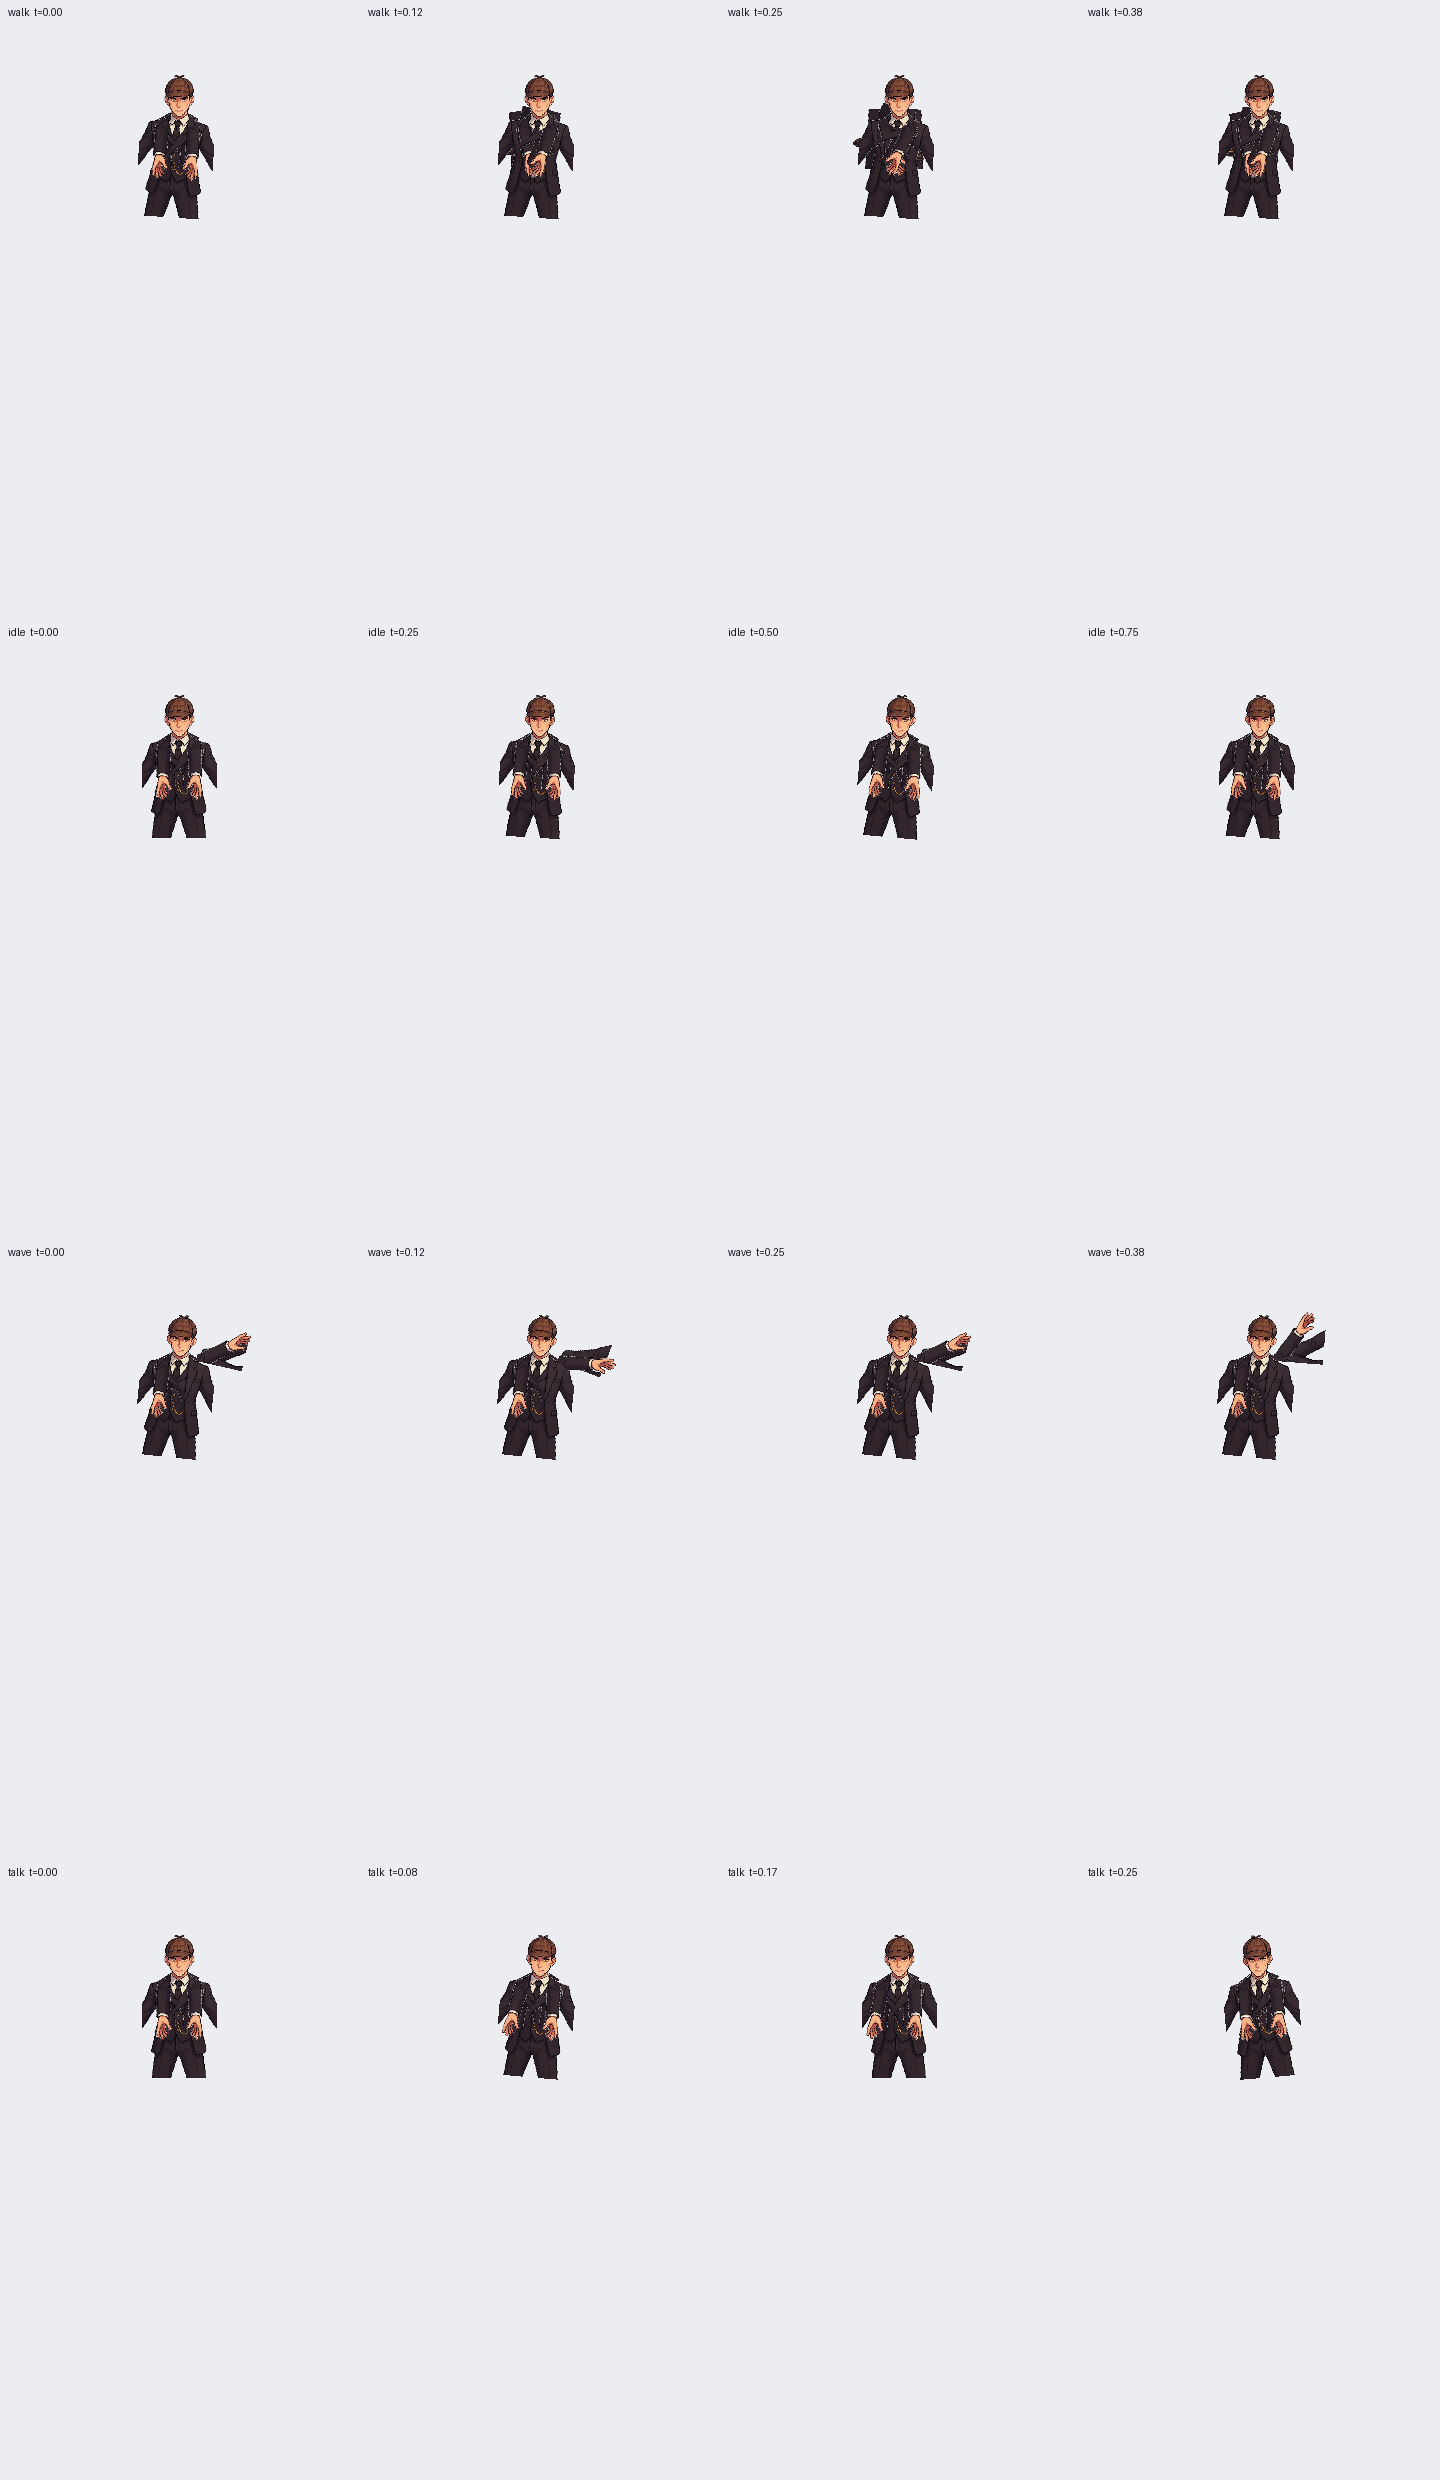
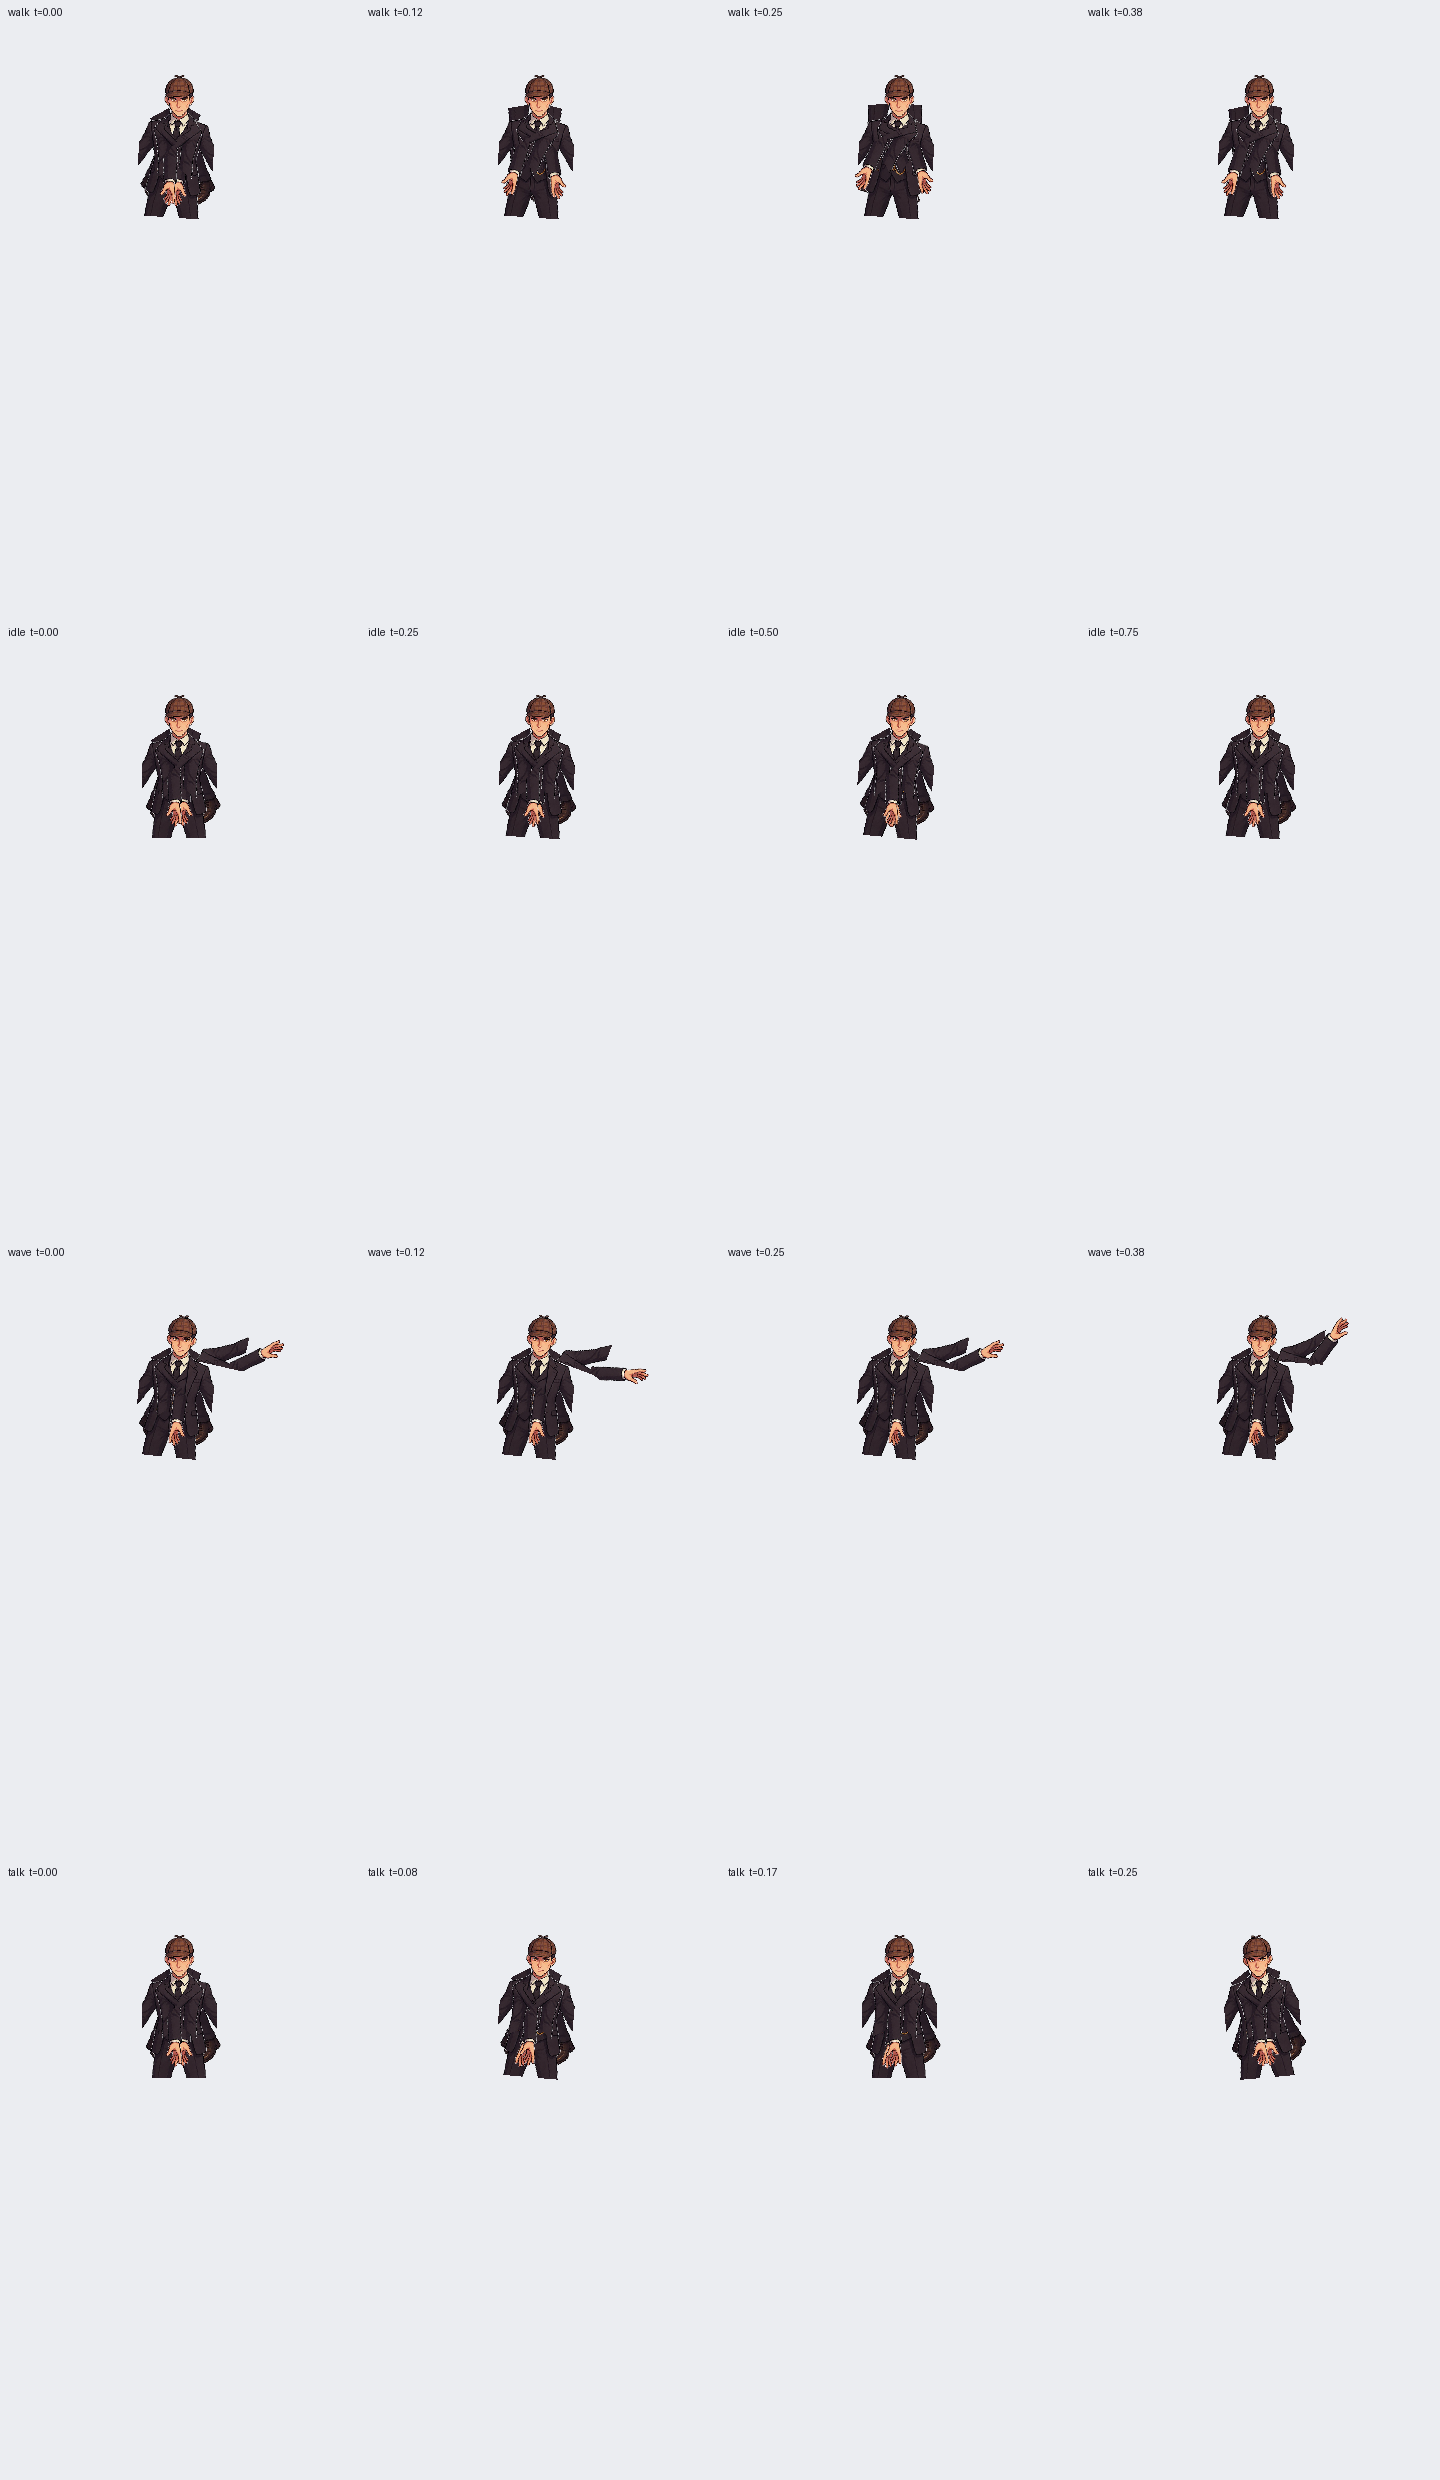
fix(rig): 修正福尔摩斯 A-pose 绑骨前臂/小腿挂点与 pivot，消除 wave 肘部脱节
- split_sherlock_spread.py: 部件矩形框保留完整区域并记录 core_offset，关节处增加重叠像素（上臂内侧 30px、前臂顶 28px 等），避免旋转后露白缝。
- build_sherlock_spread_rig.py: 用 src_point 将四肢 pivot 精确Clamp到核心像素；shoulder/hip 保持零长定位骨；前臂/小腿严格沿父骨方向 [0,parent_len] 挂接，消除二次偏移导致的肘/膝脱节。
- 重新生成 scripts/rig/sherlock_spread_rig.gd、_rig_spec.json、_joints_debug.json、poses_sherlock_spread.json 与 contact_sheet_sherlock_spread.png。
- 验证：godot --headless --check-only 无 ERROR；sherlock_spread_skeleton_character.tscn 实例化无脚本错误。

diff --git a/godot_project/tools/build_sherlock_spread_rig.py b/godot_project/tools/build_sherlock_spread_rig.py
@@ -69,6 +69,14 @@ def sub(a, b):
     return [a[0] - b[0], a[1] - b[1]]
 
 
+def limb_pivot(parts: dict, name: str):
+    """把四肢 pivot 的 y Clamp 到核心区域上边界，避免落在透明重叠区。"""
+    axis = parts[name]["axis"]
+    _, oy = parts[name]["core_offset"]
+    px, py = axis["top"]
+    return [float(px), max(float(py), float(oy))]
+
+
 def main() -> int:
     if not RIG_JSON.exists():
         print(f"[ERR] {RIG_JSON} not found; run split_sherlock_spread.py first", file=sys.stderr)
@@ -110,11 +118,17 @@ def main() -> int:
             fg = a[:, :, 3] > 128
             ys, xs = np.where(fg)
             src_bbox = [int(xs.min()), int(ys.min()), int(xs.max()), int(ys.max())]
+        # 读取 split 脚本记录的 core_offset（扩展框 -> 核心区域偏移）
+        core_offset = [0, 0]
+        for b in tmp_spec.get("parts_meta", []):
+            if b.get("name") == name and "core_offset" in b:
+                core_offset = b["core_offset"]
         # head/torso 用 bbox 中心关节，四肢用 PCA
         axis = bbox_axis(path) if name in ("head", "torso") else limb_axis_from_path(path)
         parts[name] = {
             "axis": axis,
             "src_bbox": src_bbox,
+            "core_offset": core_offset,
         }
         ax = parts[name]["axis"]
         print(f"  {name}: len={ax['len_px']:.1f}px rot={ax['rot_deg']:.1f} top=({ax['top'][0]:.0f},{ax['top'][1]:.0f}) bottom=({ax['bottom'][0]:.0f},{ax['bottom'][1]:.0f})")
@@ -131,24 +145,24 @@ def main() -> int:
     hip_root = [(torso_top[0] + torso_bottom[0]) / 2.0, torso_bottom[1]]
 
     shoulder = {
-        "L": src_point("upperarm_L", parts["upperarm_L"]["axis"]["top"]),
-        "R": src_point("upperarm_R", parts["upperarm_R"]["axis"]["top"]),
+        "L": src_point("upperarm_L", limb_pivot(parts, "upperarm_L")),
+        "R": src_point("upperarm_R", limb_pivot(parts, "upperarm_R")),
     }
     elbow = {
-        "L": src_point("forearm_L", parts["forearm_L"]["axis"]["top"]),
-        "R": src_point("forearm_R", parts["forearm_R"]["axis"]["top"]),
+        "L": src_point("forearm_L", limb_pivot(parts, "forearm_L")),
+        "R": src_point("forearm_R", limb_pivot(parts, "forearm_R")),
     }
     wrist = {
         "L": src_point("forearm_L", parts["forearm_L"]["axis"]["bottom"]),
         "R": src_point("forearm_R", parts["forearm_R"]["axis"]["bottom"]),
     }
     hip_joint = {
-        "L": src_point("thigh_L", parts["thigh_L"]["axis"]["top"]),
-        "R": src_point("thigh_R", parts["thigh_R"]["axis"]["top"]),
+        "L": src_point("thigh_L", limb_pivot(parts, "thigh_L")),
+        "R": src_point("thigh_R", limb_pivot(parts, "thigh_R")),
     }
     knee = {
-        "L": src_point("shin_L", parts["shin_L"]["axis"]["top"]),
-        "R": src_point("shin_R", parts["shin_R"]["axis"]["top"]),
+        "L": src_point("shin_L", limb_pivot(parts, "shin_L")),
+        "R": src_point("shin_R", limb_pivot(parts, "shin_R")),
     }
     ankle = {
         "L": src_point("shin_L", parts["shin_L"]["axis"]["bottom"]),
@@ -217,12 +231,13 @@ def main() -> int:
                 "shoulder_R": "torso_top",
                 "upperarm_L": "shoulder_L",
                 "upperarm_R": "shoulder_R",
-                "forearm_L": "elbow_L",
-                "forearm_R": "elbow_R",
+                # 前臂/小腿严格挂在父骨末端：attach 用父骨起点，local_pos 自然为 [0, parent_len]
+                "forearm_L": "shoulder_L",
+                "forearm_R": "shoulder_R",
                 "thigh_L": "hip_L",
                 "thigh_R": "hip_R",
-                "shin_L": "knee_L",
-                "shin_R": "knee_R",
+                "shin_L": "hip_L",
+                "shin_R": "hip_R",
             }[name]
             local_pos = rotate(sub(P[world_joint], P[attach]), -Theta[parent])
             local_rot = theta - Theta[parent]
@@ -270,31 +285,37 @@ def main() -> int:
                            P[f"elbow_{side}"][1] - P[f"shoulder_{side}"][1])
         bones.append(bone(f"upperarm_{side}", f"shoulder_{side}", f"shoulder_{side}", Theta[f"upperarm_{side}"],
                           ua_len, parts[f"upperarm_{side}"]["axis"]["size"][0] * scale * 0.6,
-                          f"upperarm_{side}.png", parts[f"upperarm_{side}"]["axis"]["top"], coat_l))
+                          f"upperarm_{side}.png", limb_pivot(parts, f"upperarm_{side}"), coat_l))
         fa_len = math.hypot(P[f"wrist_{side}"][0] - P[f"elbow_{side}"][0],
                            P[f"wrist_{side}"][1] - P[f"elbow_{side}"][1])
-        # forearm 严格挂在 upperarm 末端：用 attach=elbow，本地 pos 自然为 [0, ua_len]
         bones.append(bone(f"forearm_{side}", f"upperarm_{side}", f"elbow_{side}", Theta[f"forearm_{side}"],
                           fa_len, parts[f"forearm_{side}"]["axis"]["size"][0] * scale * 0.6,
-                          f"forearm_{side}.png", parts[f"forearm_{side}"]["axis"]["top"], skin))
+                          f"forearm_{side}.png", limb_pivot(parts, f"forearm_{side}"), skin))
 
     for side in ("L", "R"):
         th_len = math.hypot(P[f"knee_{side}"][0] - P[f"hip_{side}"][0],
                           P[f"knee_{side}"][1] - P[f"hip_{side}"][1])
         bones.append(bone(f"thigh_{side}", "hip", f"hip_{side}", Theta[f"thigh_{side}"],
                           th_len, parts[f"thigh_{side}"]["axis"]["size"][0] * scale * 0.55,
-                          f"thigh_{side}.png", parts[f"thigh_{side}"]["axis"]["top"], pants))
+                          f"thigh_{side}.png", limb_pivot(parts, f"thigh_{side}"), pants))
         sh_len = math.hypot(P[f"ankle_{side}"][0] - P[f"knee_{side}"][0],
                           P[f"ankle_{side}"][1] - P[f"knee_{side}"][1])
         bones.append(bone(f"shin_{side}", f"thigh_{side}", f"knee_{side}", Theta[f"shin_{side}"],
                           sh_len, parts[f"shin_{side}"]["axis"]["size"][0] * scale * 0.5,
-                          f"shin_{side}.png", parts[f"shin_{side}"]["axis"]["top"], skin))
+                          f"shin_{side}.png", limb_pivot(parts, f"shin_{side}"), skin))
+
+    # 前臂/小腿严格挂在父骨末端，避免 wave/idle 时关节脱节
+    for side in ("L", "R"):
+        for child, parent in [(f"forearm_{side}", f"upperarm_{side}"), (f"shin_{side}", f"thigh_{side}")]:
+            cb = next(b for b in bones if b["name"] == child)
+            pb = next(b for b in bones if b["name"] == parent)
+            cb["pos"] = [0.0, pb["len"]]
 
     new_spec = {
         "character": "sherlock_spread",
         "parts_dir": "res://assets/characters/sherlock_spread/rig/",
         "scale": scale,
-        "parts_meta": [{"name": k, "src_bbox": v["src_bbox"]} for k, v in parts.items()],
+        "parts_meta": [{"name": k, "src_bbox": v["src_bbox"], "core_offset": v["core_offset"]} for k, v in parts.items()],
         "bones": bones,
     }
     RIG_JSON.write_text(json.dumps(new_spec, indent=2, ensure_ascii=False), encoding="utf-8")

diff --git a/godot_project/tools/split_sherlock_spread.py b/godot_project/tools/split_sherlock_spread.py
@@ -87,6 +87,8 @@ def main() -> int:
             "size": [crop.width, crop.height],
             # 记录该部件框左上角在原图中的坐标（用于拼回验证 / 关节计算）
             "src_bbox": [x0, y0, x0 + crop.width - 1, y0 + crop.height - 1],
+            # 核心区域在扩展框内的偏移（用于把 pivot 定在真实关节而非透明重叠区）
+            "core_offset": [ext["left"], ext["top"]],
         }
         print(f"  -> {name}: box {crop.width}x{crop.height}  src_bbox={parts[name]['src_bbox']}")
 
@@ -105,7 +107,7 @@ def build_rig_spec(parts: dict) -> dict:
         "character": "sherlock_spread",
         "parts_dir": "res://assets/characters/sherlock_spread/rig/",
         "scale": 0.2558,
-        "parts_meta": [{"name": k, "src_bbox": v["src_bbox"], "size": v["size"]} for k, v in parts.items()],
+        "parts_meta": [{"name": k, "src_bbox": v["src_bbox"], "size": v["size"], "core_offset": v["core_offset"]} for k, v in parts.items()],
         "bones": [],
     }
 
